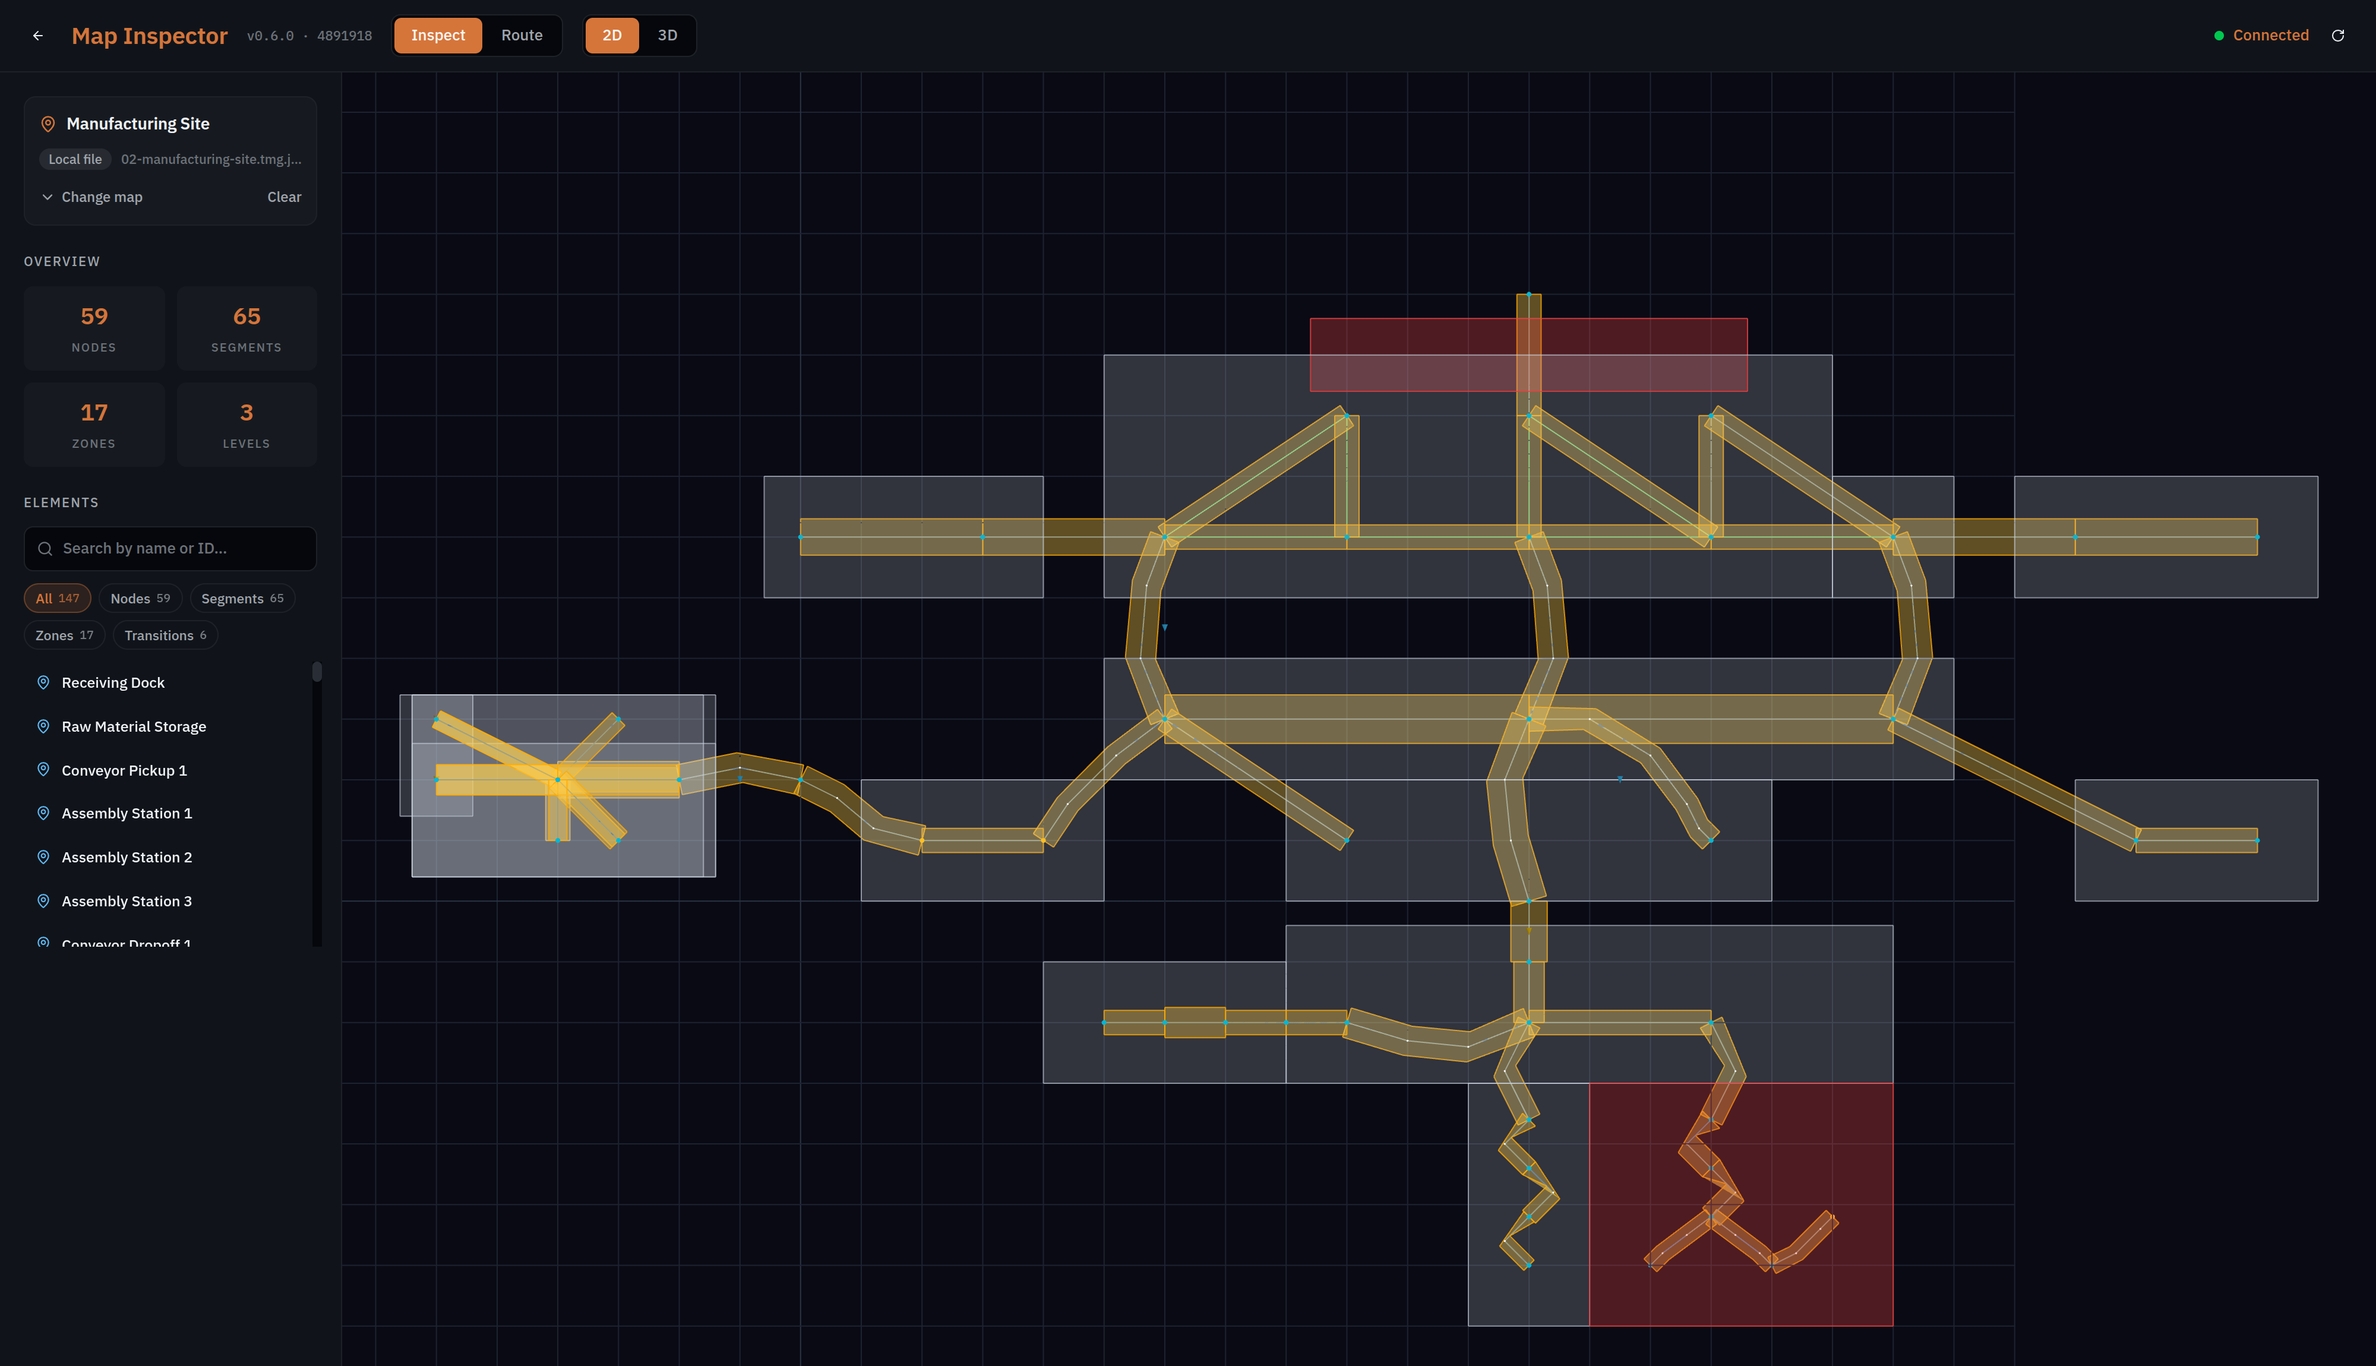
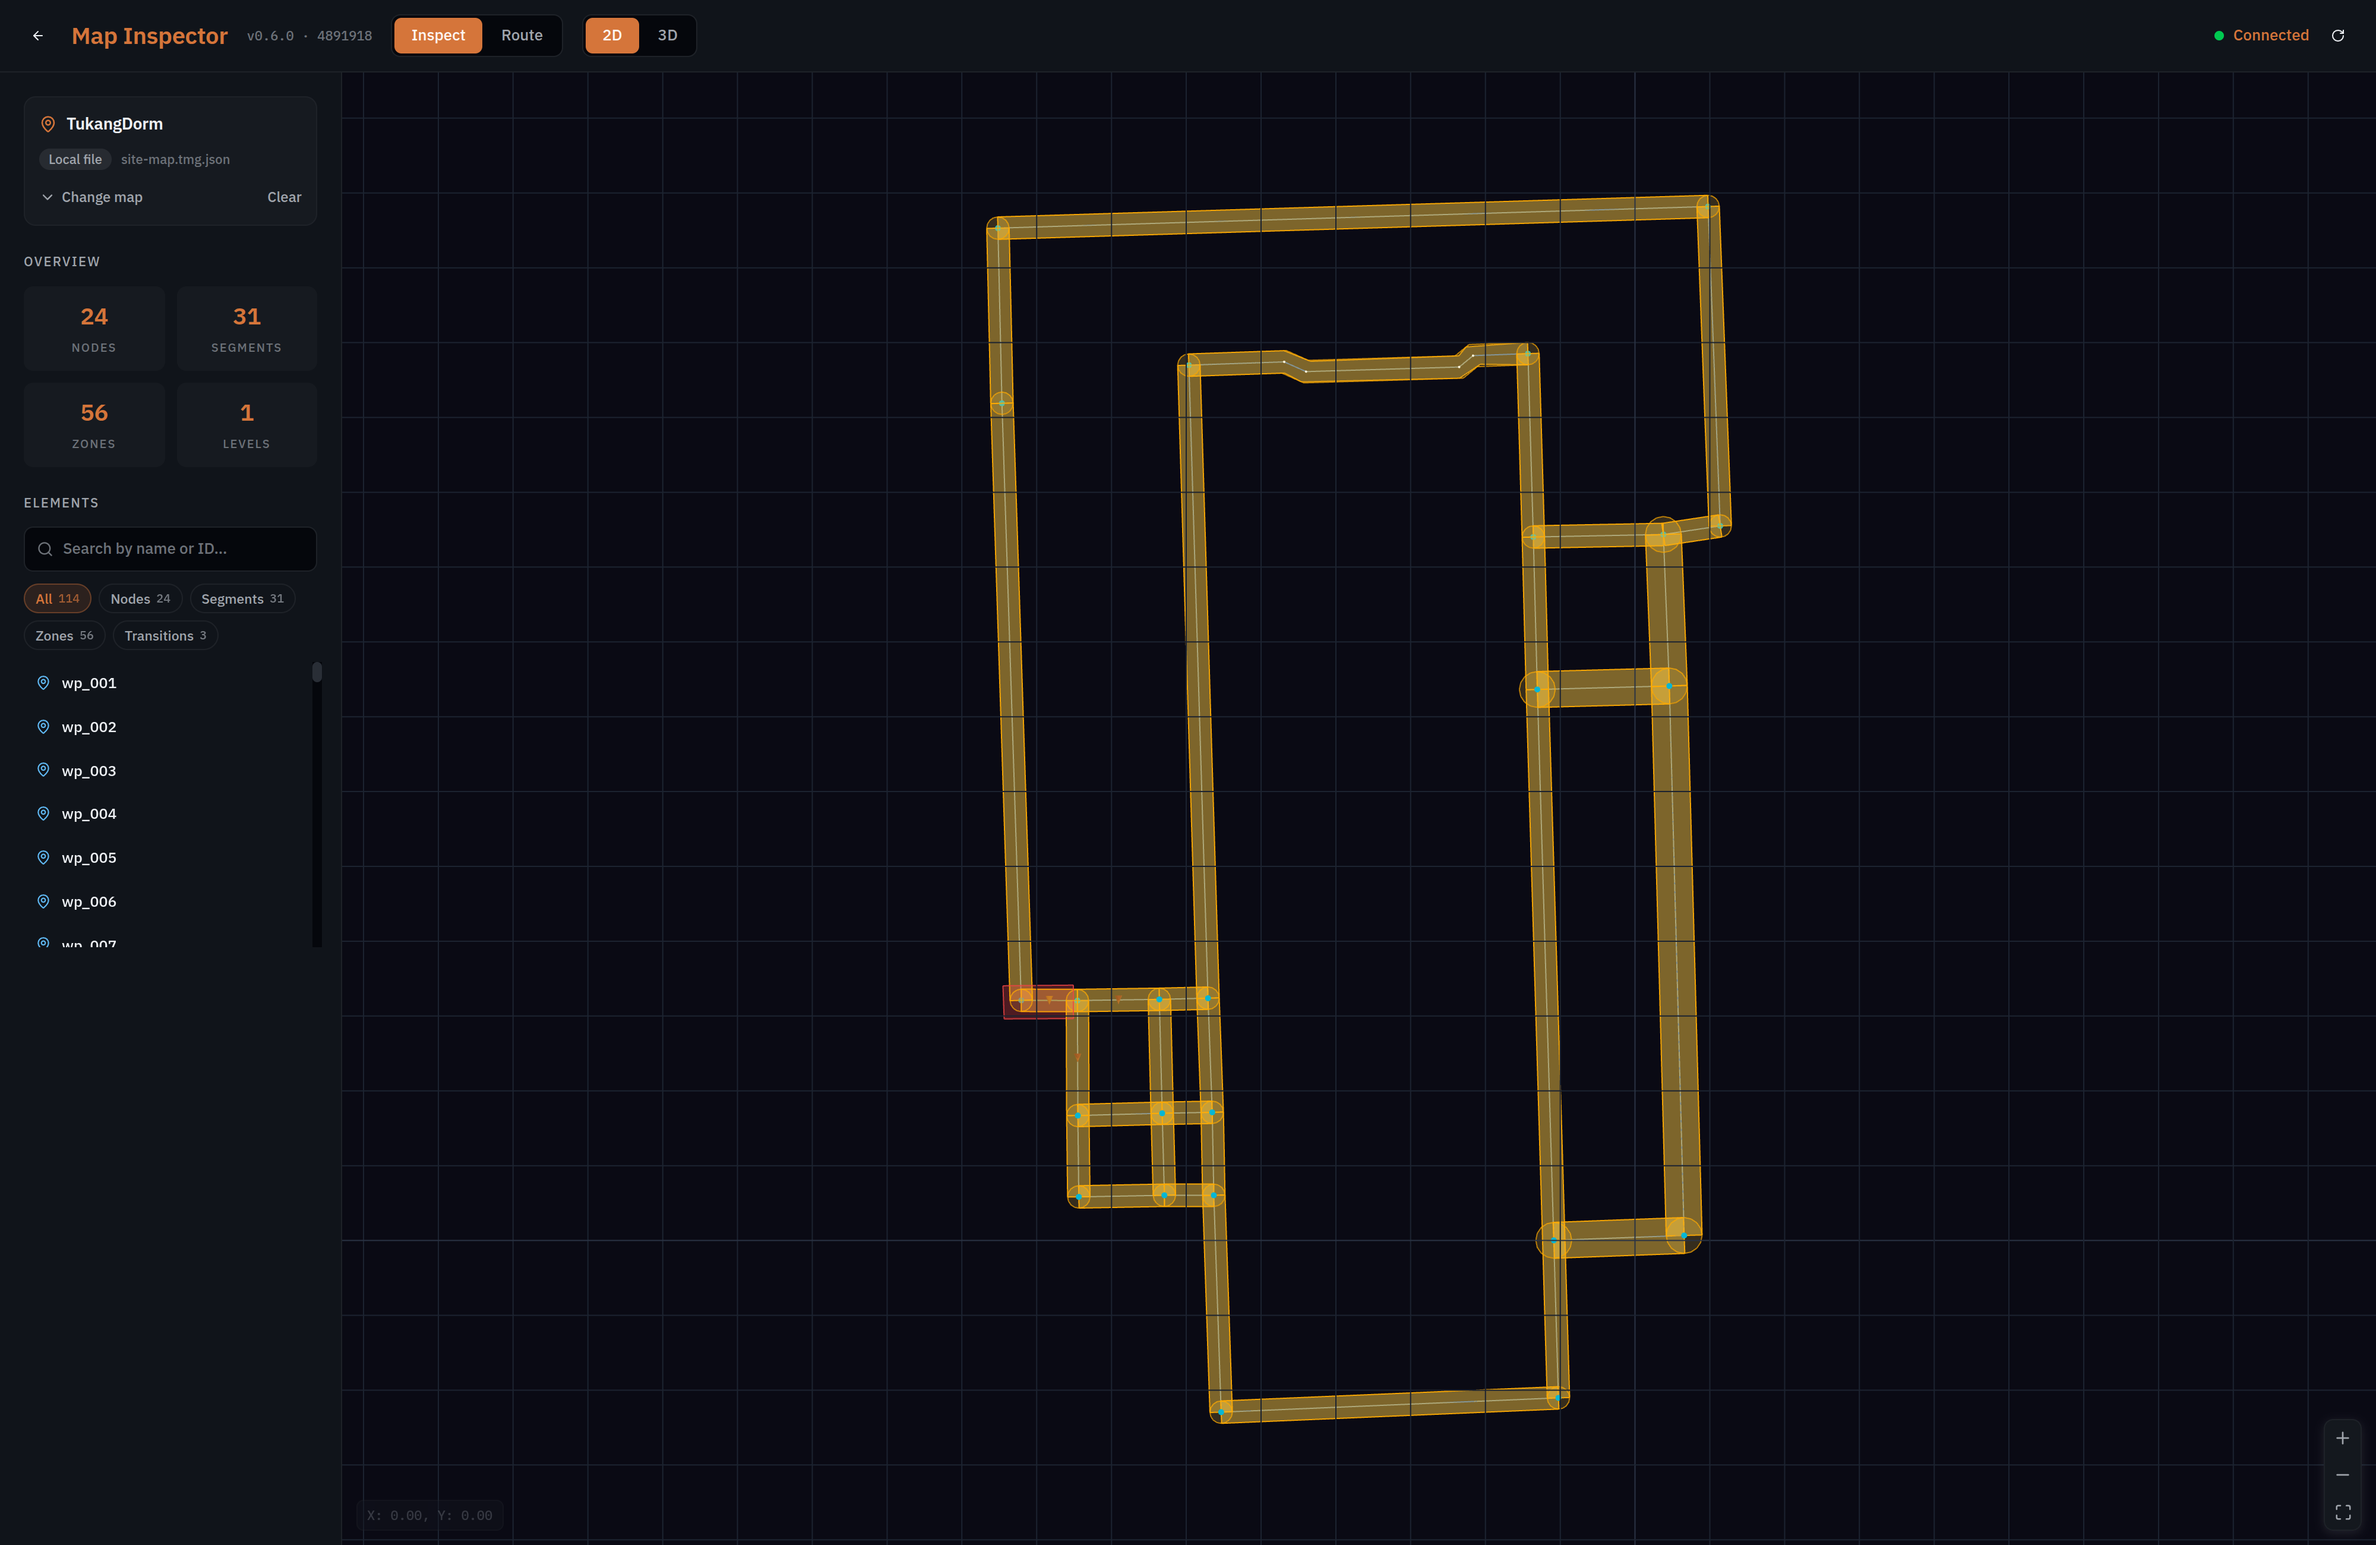
solution(toolbox): recapture the inspector on the tukangdorm map, and say only the editor pushes
The inspector figure is recaptured on a single-level site map with a
clearer structure than the manufacturing-site example, fitted to the
frame rather than sitting in a corner of it. That map's elements carry
identifiers rather than names, so the naming point is rewritten to match
what the figure shows: a list reading wp_001 through wp_024 is
searchable and tells you nothing, which is the argument for naming
elements while drawing them.

The clarification that the inspector cannot push is now explicit in two
places, because nothing said it and two things invited the inference.
The exchange table gains a column naming which tool performs each
moment — either tool can import, the editor alone can push — with the
consequence stated beneath it. And the inspector page's read-only note
now covers pushing as well as editing.

Claude-Session: https://claude.ai/code/session_01NLbhdnG43BNPWgWKiwPWix

diff --git a/solution/deployment-toolbox/map-inspector.md b/solution/deployment-toolbox/map-inspector.md
@@ -26,14 +26,16 @@ The map being inspected can be swapped without leaving the tool, and the header 
 
 <Figure
   src={require('../img/toolbox-inspector.png').default}
-  alt="The Map Inspector in Inspect mode with a manufacturing site loaded: an overview panel counting 59 nodes, 65 segments, 17 zones and 3 levels, a searchable element list filtered by kind and showing named elements such as Receiving Dock and Assembly Station 1, and the graph drawn in 2D with its zones shaded"
+  alt="The Map Inspector in Inspect mode with a site loaded: an overview panel counting 24 nodes, 31 segments, 56 zones and one level, a searchable element list filtered by kind, and the graph drawn in 2D with its zones shaded"
   size="full"
   framed
-  caption="Inspect mode. The overview counts what the map holds, the element list is searchable and filterable by kind, and the graph is drawn with its zones. This is an example map that ships with the TMG specification." />
+  caption="Inspect mode. The overview counts what the map holds, the element list is searchable and filterable by kind, and the graph is drawn with its zones." />
 
 The **overview** counts what the map contains — nodes, segments, zones and levels — which is the quickest check that a map is the one you think it is. A site you expect to have a dozen nodes and which reports sixty is not the map you meant to open.
 
-The **element list** is searchable by name or identifier and filterable by kind, so you can pull up every charging node, or find the one waypoint whose name you half remember. Selecting an element shows its properties. This is where element names earn their keep: `Assembly Station 2` is a place someone can reason about, and a bare identifier is not.
+The **element list** is searchable by name or identifier and filterable by kind, so you can pull up every charging node, or find the one waypoint whose name you half remember. Selecting an element shows its properties.
+
+This is also where naming elements earns its keep. A list reading `wp_001` through `wp_024` is searchable and tells you nothing; `Loading Bay` and `Charging Point 2` are places a person can reason about, and the difference costs nothing at the time of drawing.
 
 ## Testing that a route solves
 
@@ -56,7 +58,7 @@ Route planning runs as a service rather than in the browser, so the mode is unav
 | **A robot will not go somewhere** | Distinguishes a map that cannot express the route from a robot that will not follow it |
 | **Taking on an unfamiliar site** | Reads the map someone else authored without risking an edit |
 
-Inspecting never modifies the map, so opening a live site's map to look at it is safe.
+**The inspector only reads.** It never modifies a map, and it cannot push one back to the fleet — that is the editor's job. Opening a live site's map to look at it is therefore safe.
 
 ## Common questions
 

diff --git a/solution/deployment-toolbox/index.md b/solution/deployment-toolbox/index.md
@@ -76,10 +76,12 @@ flowchart LR
     TB -->|"push a draft revision"| FMS
 ```
 
-| Moment | Direction | What moves |
-| --- | --- | --- |
-| **Import from fleet** | Fleet → Toolbox | An existing map bundle, pulled down to work on |
-| **Push to fleet** | Toolbox → Fleet | The finished map, as a new draft revision |
+| Moment | Direction | What moves | Which tool |
+| --- | --- | --- | --- |
+| **Import from fleet** | Fleet → Toolbox | An existing map bundle, pulled down to work on | Editor or inspector |
+| **Push to fleet** | Toolbox → Fleet | The finished map, as a new draft revision | **Editor only** |
+
+**Only the editor writes back.** The inspector can pull a map down to look at it, and never sends one anywhere.
 
 **Nothing passes between them in between.** A map open in the editor is a copy: it does not follow changes made in the fleet while you work, and the fleet knows nothing of your edits until you push them. Work in progress lives in your own browser rather than on a server, so the two systems share no state at all between an import and a push.
 
